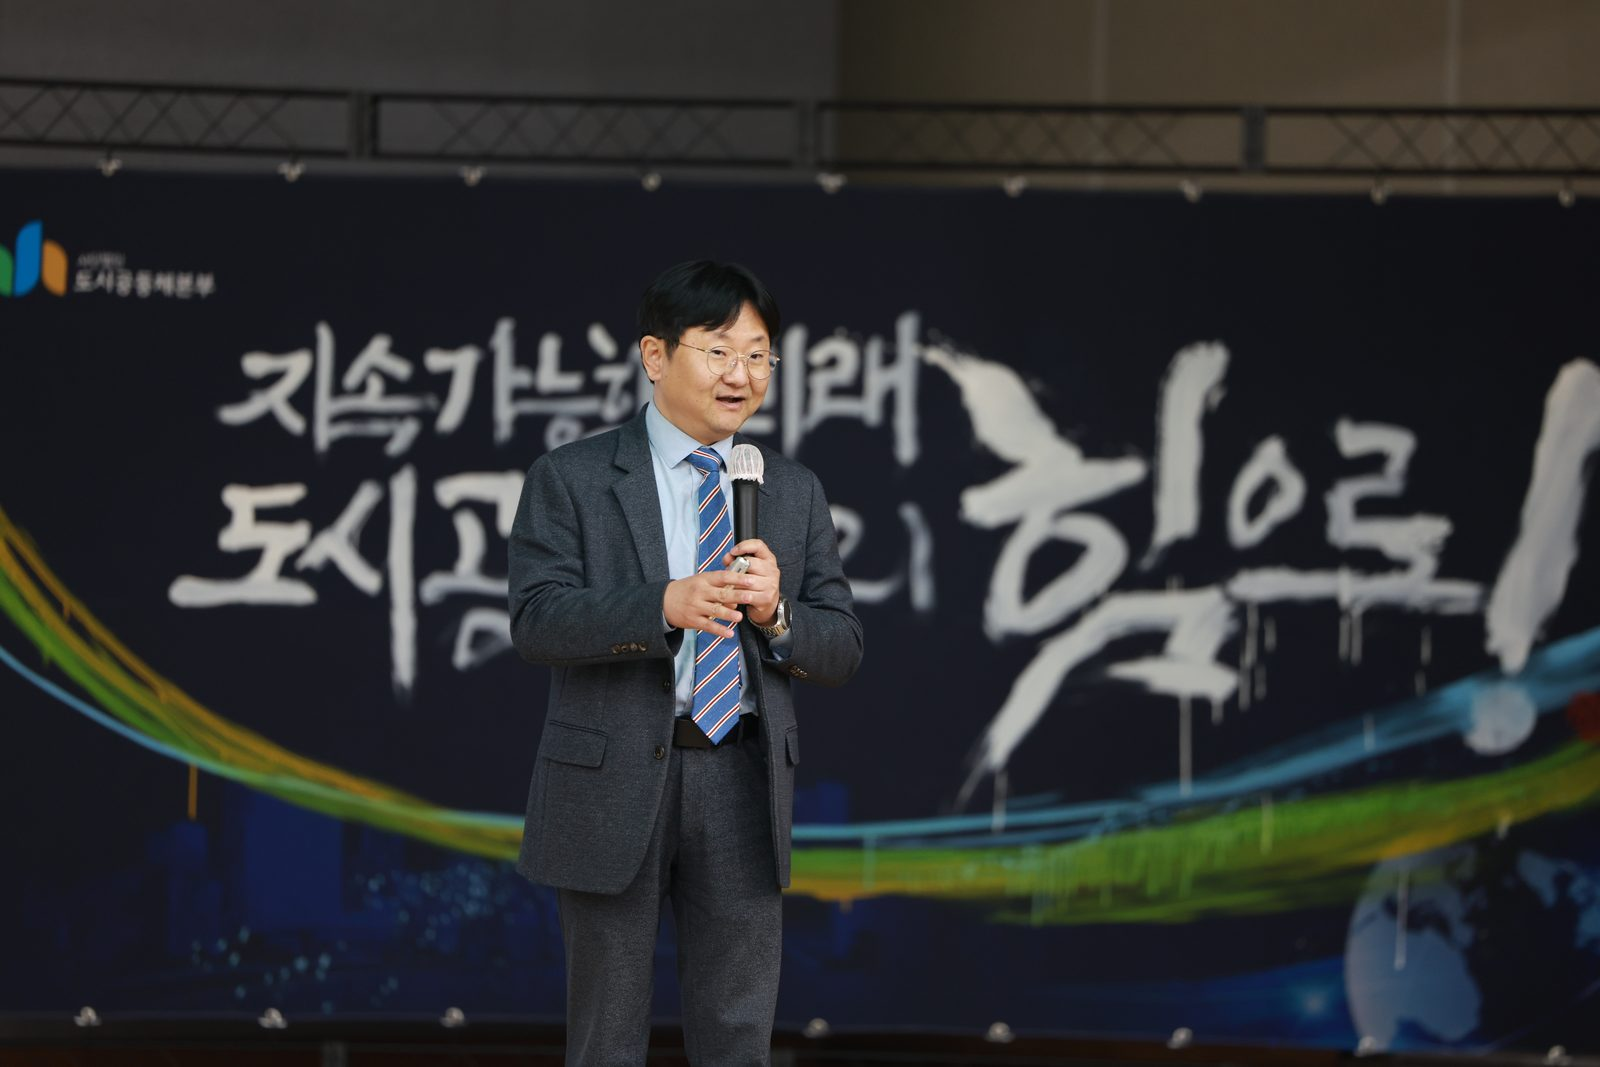
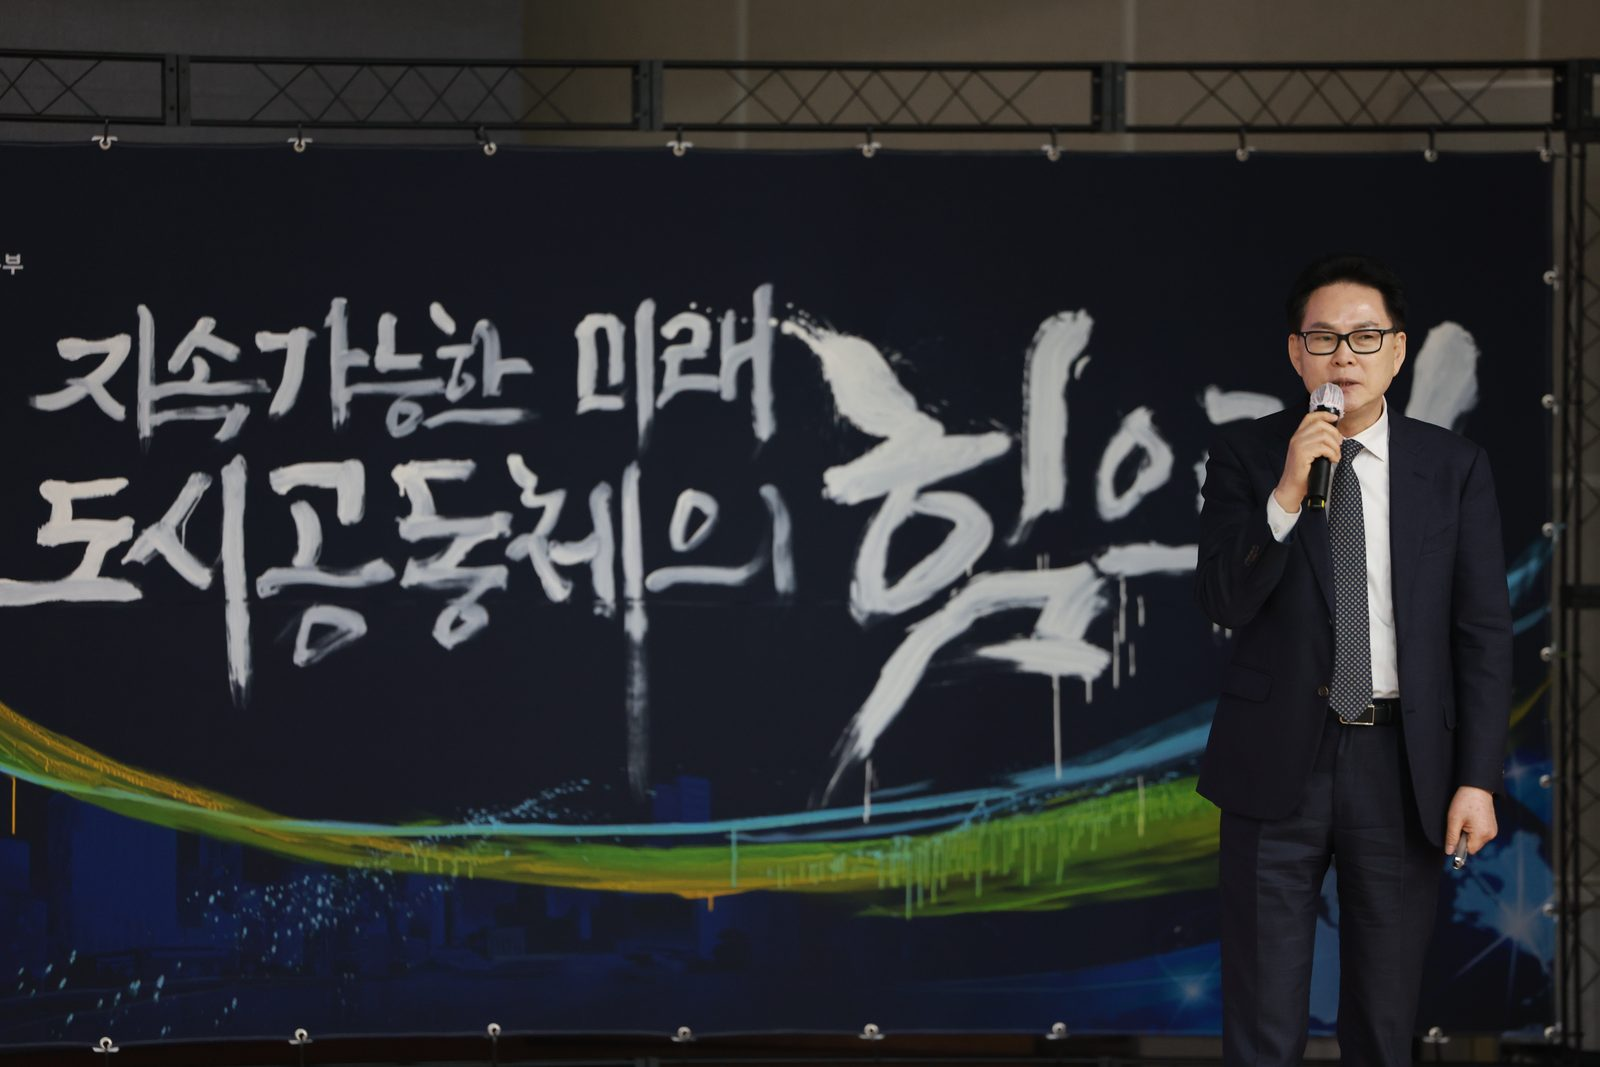
히어로: 강병선 사진 추가해 8장 슬라이드쇼로 재설정
- 강병선.jpg 포함 8장(단체사진 제외) 최적화 재배치 (hero-3=강병선)
- 슬라이드쇼 7 -> 8장, 총 주기 32초(장면당 4초)
- 크로스페이드/켄번스 키프레임을 1/8 구간(12.5%)에 맞춰 재계산
- 히어로 텍스트 32초로 재동기화, 모바일 -sm 8번 추가

diff --git a/public/css/hero.css b/public/css/hero.css
@@ -32,11 +32,11 @@
   background-size: cover; background-position: center 38%;
   transform-origin: center; will-change: opacity, transform;
   backface-visibility: hidden;
-  animation: heroSlide 28s linear infinite, heroKB1 28s ease-in-out infinite;
+  animation: heroSlide 32s linear infinite, heroKB1 32s ease-in-out infinite;
 }
 /* 짝수 슬라이드는 줌 아웃(포커스 아웃)으로 교차 → 이미지마다 다이나믹하게 */
 .hero-slide:nth-child(even) { animation-name: heroSlide, heroKB2; }
-/* 총 주기 28초 = 장면당 4초(크로스페이드 포함), 슬라이드마다 위상 지연 */
+/* 총 주기 32초 = 장면당 4초(크로스페이드 포함), 슬라이드마다 위상 지연 */
 .hero-slide--1 { background-image: url('/img/hero/hero-1.jpg'); animation-delay: 0s; }
 .hero-slide--2 { background-image: url('/img/hero/hero-2.jpg'); animation-delay: -4s; }
 .hero-slide--3 { background-image: url('/img/hero/hero-3.jpg'); animation-delay: -8s; }
@@ -44,6 +44,7 @@
 .hero-slide--5 { background-image: url('/img/hero/hero-5.jpg'); animation-delay: -16s; }
 .hero-slide--6 { background-image: url('/img/hero/hero-6.jpg'); animation-delay: -20s; }
 .hero-slide--7 { background-image: url('/img/hero/hero-7.jpg'); animation-delay: -24s; }
+.hero-slide--8 { background-image: url('/img/hero/hero-8.jpg'); animation-delay: -28s; }
 
 /* 텍스트 가독성용 스크림 */
 .hero-scrim {
@@ -53,26 +54,26 @@
     linear-gradient(180deg, rgba(8,26,19,.55) 0%, rgba(8,26,19,0) 22%, rgba(8,26,19,0) 60%, rgba(8,26,19,.45) 100%);
 }
 
-/* 크로스페이드(단일 키프레임 + 위상지연): ON 구간(≈1/7)이 0/100 경계를 걸쳐 이음새 없이 반복 */
+/* 크로스페이드(단일 키프레임 + 위상지연): ON 구간(≈1/8)이 0/100 경계를 걸쳐 이음새 없이 반복 */
 @keyframes heroSlide {
   0%    { opacity: 1; }
-  10.8% { opacity: 1; }
-  14.3% { opacity: 0; }
-  96.5% { opacity: 0; }
+  9.5%  { opacity: 1; }
+  12.5% { opacity: 0; }
+  97%   { opacity: 0; }
   100%  { opacity: 1; }
 }
 /* 켄번스 A: 노출 구간 동안 줌 인 + 대각 패닝 (비노출 구간에서 리셋) */
 @keyframes heroKB1 {
   0%    { transform: scale(1.09) translate(-0.6%, -0.4%); }
-  14.3% { transform: scale(1.15) translate(-1.6%, -1.1%); }
-  96.5% { transform: scale(1.04) translate( 1.6%,  1.0%); }
+  12.5% { transform: scale(1.15) translate(-1.6%, -1.1%); }
+  97%   { transform: scale(1.04) translate( 1.6%,  1.0%); }
   100%  { transform: scale(1.09) translate(-0.6%, -0.4%); }
 }
 /* 켄번스 B: 줌 아웃(포커스 아웃) + 반대 방향 패닝 */
 @keyframes heroKB2 {
   0%    { transform: scale(1.09) translate( 0.6%,  0.4%); }
-  14.3% { transform: scale(1.04) translate( 1.6%,  1.0%); }
-  96.5% { transform: scale(1.15) translate(-1.6%, -1.1%); }
+  12.5% { transform: scale(1.04) translate( 1.6%,  1.0%); }
+  97%   { transform: scale(1.15) translate(-1.6%, -1.1%); }
   100%  { transform: scale(1.09) translate( 0.6%,  0.4%); }
 }
 
@@ -92,9 +93,9 @@
   color: #6ecf74; line-height: 1; white-space: nowrap; will-change: opacity, transform;
   text-shadow: 0 2px 16px rgba(0,0,0,.55), 0 0 2px rgba(0,0,0,.55);
 }
-.hero-copy--1, .hero-keyword--1 { animation: heroText1 28s linear infinite; }
-.hero-copy--2, .hero-keyword--2 { animation: heroText2 28s linear infinite; }
-.hero-copy--3, .hero-keyword--3 { animation: heroText3 28s linear infinite; }
+.hero-copy--1, .hero-keyword--1 { animation: heroText1 32s linear infinite; }
+.hero-copy--2, .hero-keyword--2 { animation: heroText2 32s linear infinite; }
+.hero-copy--3, .hero-keyword--3 { animation: heroText3 32s linear infinite; }
 
 /* 텍스트 페이드(이미지 크로스페이드와 동일 타이밍) + 살짝 떠오름 */
 @keyframes heroText1 {
@@ -215,6 +216,7 @@
   .hero-slide--5 { background-image: url('/img/hero/hero-5-sm.jpg'); }
   .hero-slide--6 { background-image: url('/img/hero/hero-6-sm.jpg'); }
   .hero-slide--7 { background-image: url('/img/hero/hero-7-sm.jpg'); }
+  .hero-slide--8 { background-image: url('/img/hero/hero-8-sm.jpg'); }
   .hero-stage { flex-direction: column; align-items: flex-start; gap: 20px; }
   .hero-keywords { justify-items: start; text-align: left; }
   .hero-keyword { white-space: normal; }

diff --git a/public/index.html b/public/index.html
@@ -154,6 +154,7 @@
           <div class="hero-slide hero-slide--5"></div>
           <div class="hero-slide hero-slide--6"></div>
           <div class="hero-slide hero-slide--7"></div>
+          <div class="hero-slide hero-slide--8"></div>
         </div>
         <div class="hero-scrim"></div>
       </div>
